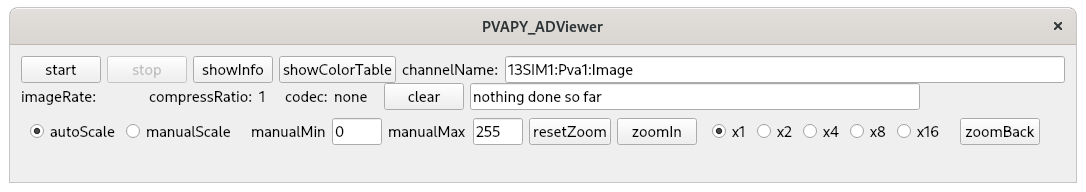
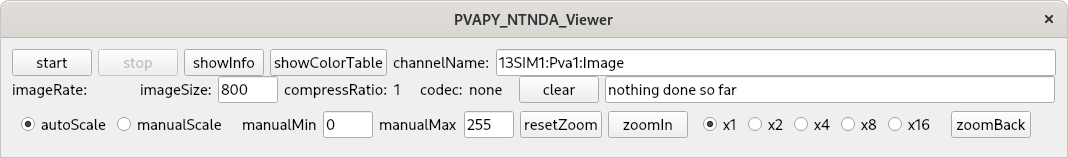
working on documentation

diff --git a/PY_NTNDA_Viewer/PY_NTNDA_Viewer.md b/PY_NTNDA_Viewer/PY_NTNDA_Viewer.md
@@ -31,5 +31,65 @@ When either version is started the following control window appears:
 
 ![](PY_NTNDA_Viewer.png)
 
+When start is pressed the following appears:
 
+![](image.png)
+
+
+### First row of control window
+
+- start Clicking this button starts communication with the server
+- stop Clicking this button stops communication with the server
+- showInfo Clicking this brings up the showInfo window. See below for details.
+- showColorTable Clicking this brings up the ColorTable window. See below for details
+- channelName This is the name of the channel that provides the NTNDArray. When in stopped mode a new channel name can be specified.
+
+
+### Second row of control window
+
+- imageRate This shows the number of images/second that are being displayed. Note that this is normally less than the number of images the server is producing.imageRate.
+- imageSize
+- compressRatio
+- codec
+- clear
+
+### Third row of control window
+
+- autoScale
+- manualScale
+- manualMin
+- manualMax
+- resetZoom
+- zoomIn
+- x1,...,x16
+- zoomBack
+
+## Suggested simDetector setup
+
+### Main window
+
+![](simDetector.png)
+
+### commonPlugins
+
+![](commonPlugins.png)
+
+### Simulation Setup
+
+![](simDetectorSetup.png)
+
+### NDCodec
+
+![](NDCodec.png)
+
+## Image Zoom
+
+
+## showInfo
+
+![](showInfo.png)
+
+## Color Table
+
+![](ColorTable.png)
 
